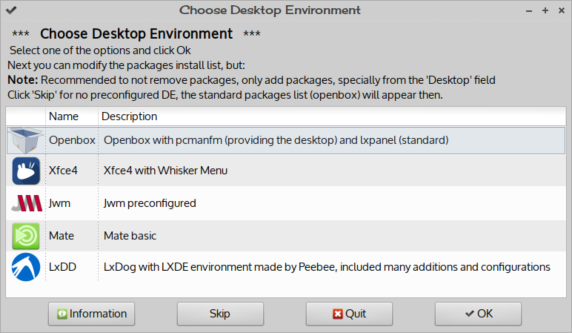
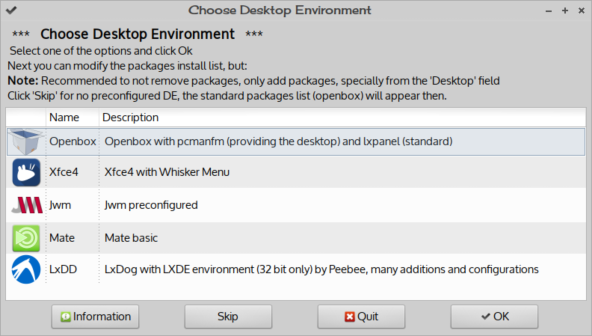
Stretch support changes

diff --git a/index.html b/index.html
@@ -28,12 +28,12 @@ p.big {
 <a href="configs">configs/</a>                                                                  25-Aug-2017 13:16     -
 <a href="deb">deb/</a>                                                                      25-Aug-2017 13:33     -
 <a href="dog-boot">dog-boot/</a>                                                                 25-Aug-2017 19:21     -
-<a href=".git">.git/</a>                                                                     25-Aug-2017 21:41     -
+<a href=".git">.git/</a>                                                                     25-Aug-2017 23:27     -
 <a href="icons">icons/</a>                                                                    25-Aug-2017 22:41     -
 <a href="images">images/</a>                                                                   25-Aug-2017 21:37     -
 <a href="isodata">isodata/</a>                                                                  25-Aug-2017 13:33     -
 <a href="modules">modules/</a>                                                                  25-Aug-2017 23:10     -
-<a href="screenshots">screenshots/</a>                                                              25-Aug-2017 23:25     -
+<a href="screenshots">screenshots/</a>                                                              26-Aug-2017  0:04     -
 <a href="thunar">thunar/</a>                                                                   25-Aug-2017 21:41     -
 </font></p>
 </pre><address>Github Server at https://debiandog.github.io/</address></body></html>

diff --git a/screenshots/index.html b/screenshots/index.html
@@ -7,7 +7,8 @@ p.big {
 <html><head><title>Index of https://debiandog.github.io/MakeLive/screenshots</title></head>
 <body><h2>Index of MakeLive/screenshots</h2><pre><b> Name                                                                                Last modified            Size</b>
 <p STYLE="font-size: 13px;" class="big"><a href=https://debiandog.github.io/MakeLive>Parent Directory/</a>
-<a href="DE_config.png">DE_config.png</a>                                                             25-Aug-2017 23:24     83K
+<a href="DE_config.png">DE_config.png</a>                                                             26-Aug-2017  0:00     83K
+<a href="LxDD.png">LxDD.png</a>                                                                  26-Aug-2017  0:04     168K
 <a href="mate.png">mate.png</a>                                                                  25-Aug-2017 23:07     25K
 <a href="mklive-stretch-gui.png">mklive-stretch-gui.png</a>                                                    25-Aug-2017 11:45     152K
 <a href="openbox.png">openbox.png</a>                                                               25-Aug-2017 22:52     107K

diff --git a/modules/index.html b/modules/index.html
@@ -9,7 +9,7 @@ p.big {
 <p STYLE="font-size: 13px;" class="big"><a href=https://debiandog.github.io/MakeLive>Parent Directory/</a>
 <a href="cr-index">cr-index</a>                                                                  25-Aug-2017 13:42     3.8K
 <a href="lxdd">lxdd/</a>                                                                     25-Aug-2017 13:44     -
-<a href="mate">mate/</a>                                                                     25-Aug-2017 23:10     -
+<a href="mate">mate/</a>                                                                     25-Aug-2017 23:27     -
 <a href="xfce4">xfce4/</a>                                                                    25-Aug-2017 21:41     -
 </font></p>
 </pre><address>Github Server at https://debiandog.github.io/MakeLive/</address></body></html>
